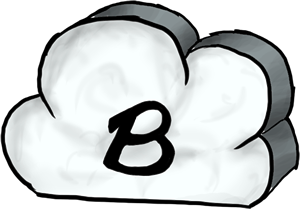
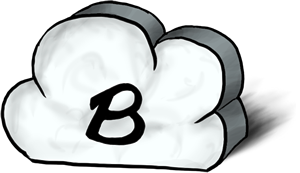
clouded

diff --git a/view/home/style.css b/view/home/style.css
@@ -90,7 +90,14 @@
 	box-shadow: none;
 }
 
-.marketing h1, h2 {
+.marketing #cloud {
+	position: absolute;
+	margin-left: 768px;
+	margin-top: -46px;
+	height: 84px;
+}
+
+.marketing h1, h2, h3 {
 	font-weight: 300;
 }
 
@@ -107,6 +114,11 @@
 	padding-left: 15px;
 }
 
+.marketing h3 {
+	font-size: 16px;
+	color: #999;
+}
+
 .marketing p {
 	line-height: 25px;
 	font-size: 18px;
@@ -119,6 +131,7 @@
 .marketing hr {
 	border-top: 1px solid #CCC;
 	border-bottom: 1px solid white;
+	margin-right: 200px;
 }
 
 /* upload iframe */

diff --git a/view/home/index.php b/view/home/index.php
@@ -40,6 +40,7 @@
 <!-- MARKETING STUFF GOES HERE -->
 <div class="container well marketing" >
 	<h1>Why you'll love using Bitlet</h1>
+	<img id="cloud" src="/img/drawings/bitcloud.png">
 	<hr>
 	<div class="row">
 		<div class="span4">
